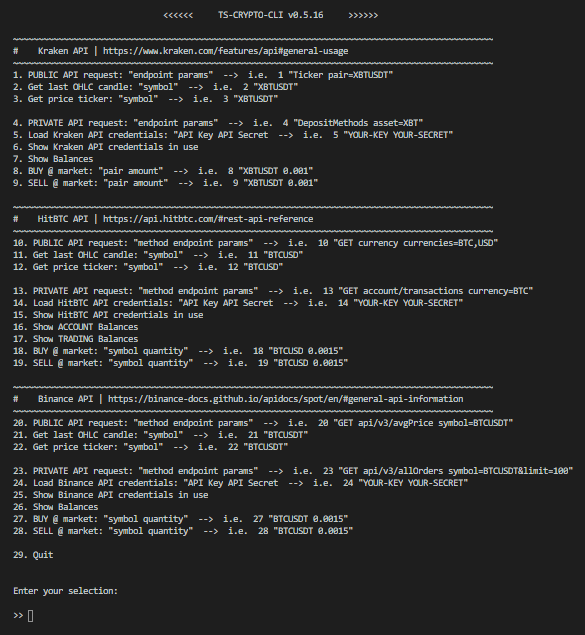
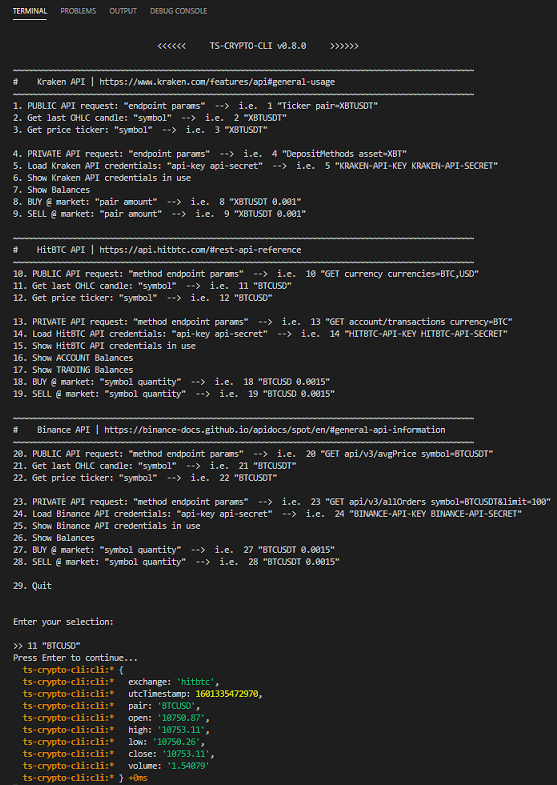
release: 0.8.0

Changed region(s): [[0.0, 0.0, 0.9767, 1.0], [0.0305, 0.0, 0.2442, 0.0299]]

diff --git a/src/cli.ts b/src/cli.ts
@@ -52,7 +52,7 @@ nodeMenu
   .addDelimiter(' ', 1)
   .addItem('PRIVATE API request', (input: string) => { const [endpoint, params] = input.split(' '); handleUserInput(endpoint, 'POST', 'kraken', 'private', params) }, null, [{ name: 'endpoint params"  -->  i.e.  4 "DepositMethods asset=XBT', type: 'string' }])
   
-  .addItem('Load Kraken API credentials', (input: string) => { const [k, s] = input.split(' '); process.env.KRAKEN_API_KEY = k; process.env.KRAKEN_API_SECRET = s; updateKrakenDefaultClient(k, s) }, null, [{ name: 'API Key API Secret  -->  i.e.  5 "KRAKEN-API-KEY KRAKEN-API-SECRET', type: 'string' }])
+  .addItem('Load Kraken API credentials', (input: string) => { const [k, s] = input.split(' '); process.env.KRAKEN_API_KEY = k; process.env.KRAKEN_API_SECRET = s; updateKrakenDefaultClient(k, s) }, null, [{ name: 'api-key api-secret"  -->  i.e.  5 "KRAKEN-API-KEY KRAKEN-API-SECRET', type: 'string' }])
   .addItem('Show Kraken API credentials in use', () => { print({apiKey: process.env.KRAKEN_API_KEY, apiSecret: process.env.KRAKEN_API_SECRET}) })
   
   .addItem('Show Balances', async () => { print(filterKrakenBalances(await krakenPrivateApiRequest({ url: 'Balance' }))) })
@@ -72,7 +72,7 @@ nodeMenu
   .addDelimiter(' ', 1)
   .addItem('PRIVATE API request', (input: string) => { const [method, endpoint, params] = input.split(' '); handleUserInput(endpoint, method as Method, 'hitbtc', 'private', params) }, null, [{ name: 'method endpoint params"  -->  i.e.  13 "GET account/transactions currency=BTC', type: 'string' }])
   
-  .addItem('Load HitBTC API credentials', (input: string) => { const [k, s] = input.split(' '); process.env.HITBTC_API_KEY = k; process.env.HITBTC_API_SECRET = s; updateHitBTCDefaultClient(k, s) }, null, [{ name: 'API Key API Secret  -->  i.e.  14 "HITBTC-API-KEY HITBTC-API-SECRET', type: 'string' }])
+  .addItem('Load HitBTC API credentials', (input: string) => { const [k, s] = input.split(' '); process.env.HITBTC_API_KEY = k; process.env.HITBTC_API_SECRET = s; updateHitBTCDefaultClient(k, s) }, null, [{ name: 'api-key api-secret"  -->  i.e.  14 "HITBTC-API-KEY HITBTC-API-SECRET', type: 'string' }])
   .addItem('Show HitBTC API credentials in use', () => { print({apiKey: process.env.HITBTC_API_KEY, apiSecret: process.env.HITBTC_API_SECRET}) })
   
   .addItem('Show ACCOUNT Balances', async () => { print(filterHitBTCBalances(await hitbtcPrivateApiRequest({ url: 'account/balance' }))) })
@@ -93,7 +93,7 @@ nodeMenu
   .addDelimiter(' ', 1)
   .addItem('PRIVATE API request', (input: string) => { const [method, endpoint, params] = input.split(' '); handleUserInput(endpoint, method as Method, 'binance', 'private', params) }, null, [{ name: 'method endpoint params"  -->  i.e.  23 "GET api/v3/allOrders symbol=BTCUSDT&limit=100', type: 'string' }])
   
-  .addItem('Load Binance API credentials', (input: string) => { const [k, s] = input.split(' '); process.env.BINANCE_API_KEY = k; process.env.BINANCE_API_SECRET = s; updateBinanceDefaultClient(k, s) }, null, [{ name: 'API Key API Secret  -->  i.e.  24 "BINANCE-API-KEY BINANCE-API-SECRET', type: 'string' }])
+  .addItem('Load Binance API credentials', (input: string) => { const [k, s] = input.split(' '); process.env.BINANCE_API_KEY = k; process.env.BINANCE_API_SECRET = s; updateBinanceDefaultClient(k, s) }, null, [{ name: 'api-key api-secret"  -->  i.e.  24 "BINANCE-API-KEY BINANCE-API-SECRET', type: 'string' }])
   .addItem('Show Binance API credentials in use', () => { print({apiKey: process.env.BINANCE_API_KEY, apiSecret: process.env.BINANCE_API_SECRET}) })
   
   .addItem('Show Balances', async () => { print(filterBinanceBalances((await binancePrivateApiRequest({ url: 'api/v3/account' })).balances)) })

diff --git a/src/base_axios_config.ts b/src/base_axios_config.ts
@@ -1,6 +1,5 @@
 import { createStream } from 'rotating-file-stream'
 import { resolve } from 'path'
-import * as moment from 'moment'
 import { stringify } from 'qs'
 import debugHelper from './util/debug_helper'
 import { AxiosRequestConfig, AxiosResponse, AxiosError } from 'axios'
@@ -20,7 +19,8 @@ const dirPath = TS_CRYPTO_CLI_LOGS_PATH ? resolve(TS_CRYPTO_CLI_LOGS_PATH) : nul
 
 // Rotating filenames
 const calculateFileName = (date: Date, index: number): string => {
-    const fileName = `ts-crypto-cli_${moment().utc().format('YYYY_MMM')}`
+    const [YYYY, MM] = new Date().toISOString().slice(0,7).split('-')
+    const fileName = `ts-crypto-cli_${YYYY}_${MM}`
     if (!date) return `${fileName}.csv`
     return `${fileName}_${index}.csv`
 }
@@ -41,26 +41,26 @@ const baseAxiosRequestInterceptor = (config: AxiosRequestConfig): AxiosRequestCo
         delete config.data
     }
     const { method, baseURL, url, params = '-', data = '-' } = config || {}
-    if (stream) stream.write(`\n${moment().utc().format('DD MMM YYYY HH:mm:ss')}; ${method.toUpperCase()}; ${baseURL}${baseURL.endsWith('/') || url.startsWith('/') ? '' : '/'}${url}; ${params}; ${data}; -; -; -`)
+    if (stream) stream.write(`\n${new Date().toISOString()}; ${method.toUpperCase()}; ${baseURL}${baseURL.endsWith('/') || url.startsWith('/') ? '' : '/'}${url}; ${params}; ${data}; -; -; -`)
     return config
 }
 
 const baseAxiosResponseInterceptor = (response: AxiosResponse): AxiosResponse => {
     const { config: { method, baseURL, url, params = '-' }, status = null, statusText = '-', data = '-' } = response || {}
-    if (stream) stream.write(`\n${moment().utc().format('DD MMM YYYY HH:mm:ss')}; ${method.toUpperCase()}; ${baseURL}${baseURL.endsWith('/') || url.startsWith('/') ? '' : '/'}${url}; ${params}; ${typeof data}; ${status}; ${statusText}; -`)
+    if (stream) stream.write(`\n${new Date().toISOString()}; ${method.toUpperCase()}; ${baseURL}${baseURL.endsWith('/') || url.startsWith('/') ? '' : '/'}${url}; ${params}; ${typeof data}; ${status}; ${statusText}; -`)
     return response
 }
 
 const baseAxiosRequestErrorInterceptor = (axiosRequestError: AxiosError): void => {
     const { config: { method, baseURL, url, params = '-', data = '-' }, code = '-', response: { status = null, statusText = '-' } = {} } = axiosRequestError || {}
-    if (stream) stream.write(`\n${moment().utc().format('DD MMM YYYY HH:mm:ss')}; ${method.toUpperCase()}; ${baseURL}${baseURL.endsWith('/') || url.startsWith('/') ? '' : '/'}${url}; ${params}; ${JSON.stringify(data)}; ${status}; ${statusText}; ${code}`)
+    if (stream) stream.write(`\n${new Date().toISOString()}; ${method.toUpperCase()}; ${baseURL}${baseURL.endsWith('/') || url.startsWith('/') ? '' : '/'}${url}; ${params}; ${JSON.stringify(data)}; ${status}; ${statusText}; ${code}`)
     logError({ axiosRequestError })
     throw axiosRequestError
 }
 
 const baseAxiosResponseErrorInterceptor = (axiosResponseError: AxiosError): void => {
     const { config: { method, baseURL, url, params = '-', data = '-' }, code = '-', response: { status = null, statusText = '-' } = {} } = axiosResponseError || {}
-    if (stream) stream.write(`\n${moment().utc().format('DD MMM YYYY HH:mm:ss')}; ${method.toUpperCase()}; ${baseURL}${baseURL.endsWith('/') || url.startsWith('/') ? '' : '/'}${url}; ${params}; ${typeof data}; ${status}; ${statusText}; ${code}`)
+    if (stream) stream.write(`\n${new Date().toISOString()}; ${method.toUpperCase()}; ${baseURL}${baseURL.endsWith('/') || url.startsWith('/') ? '' : '/'}${url}; ${params}; ${typeof data}; ${status}; ${statusText}; ${code}`)
     logError({ axiosResponseError })
     throw axiosResponseError
 }

diff --git a/src/index.ts b/src/index.ts
@@ -5,6 +5,7 @@ export * from './api_clients/kraken/public_ws_handler'
 export * from './api_clients/kraken/private_ws_handler'
 export * from './services/kraken/get_kraken_price_ticker'
 export * from './services/kraken/get_kraken_ohlc_candles'
+export * from './streams/kraken/get_kraken_ticker_stream'
 
 export * from './api_clients/hitbtc/public_api_request'
 export * from './api_clients/hitbtc/private_api_request'
@@ -12,6 +13,7 @@ export * from './api_clients/hitbtc/public_ws_handler'
 export * from './api_clients/hitbtc/private_ws_handler'
 export * from './services/hitbtc/get_hitbtc_price_ticker'
 export * from './services/hitbtc/get_hitbtc_ohlc_candles'
+export * from './streams/hitbtc/get_hitbtc_ticker_stream'
 
 export * from './api_clients/binance/public_api_request'
 export * from './api_clients/binance/private_api_request'
@@ -19,6 +21,7 @@ export * from './api_clients/binance/public_ws_handler'
 export * from './api_clients/binance/private_ws_handler'
 export * from './services/binance/get_binance_price_ticker'
 export * from './services/binance/get_binance_ohlc_candles'
+export * from './streams/binance/get_binance_ticker_stream'
 
 export * from './types/standard_ohlc'
 export * from './types/standard_ticker'

diff --git a/src/services/binance/get_binance_ohlc_candles.ts b/src/services/binance/get_binance_ohlc_candles.ts
@@ -1,19 +1,19 @@
-import { standardOHLC } from "../../types/standard_ohlc"
-import { binancePublicApiRequest } from "../../api_clients/binance/public_api_request"
-import * as moment from 'moment'
+import { StandardOHLC } from '../../types/standard_ohlc'
+import { binancePublicApiRequest } from '../../api_clients/binance/public_api_request'
 
 // 
 // https://binance-docs.github.io/apidocs/spot/en/#kline-candlestick-data
 // 
 // limit: Default 500; max 1000
 
-export const getBinanceOHLCCandles = async (symbol: string, interval = '1m', limit = 720): Promise<standardOHLC[]> => {
-    const candles = await binancePublicApiRequest({ url: 'api/v3/klines', params: { symbol, interval, limit }})
+export const getBinanceOHLCCandles = async (pair: string, interval = '1m', limit = 720): Promise<StandardOHLC[]> => {
+    const candles = await binancePublicApiRequest({ url: 'api/v3/klines', params: { symbol: pair, interval, limit }})
     candles.reverse()
     
     return candles.map(([, open, high, low, close, volume,]) => ({
         exchange: 'binance',
-        utcMoment: moment().utc(),
+        utcTimestamp: new Date().getTime(),
+        pair,
         open,
         high,
         low,

diff --git a/src/services/hitbtc/get_hitbtc_ohlc_candles.ts b/src/services/hitbtc/get_hitbtc_ohlc_candles.ts
@@ -1,19 +1,19 @@
 import { hitbtcPublicApiRequest } from '../../api_clients/hitbtc/public_api_request'
-import { standardOHLC } from '../../types/standard_ohlc'
-import * as moment from 'moment'
+import { StandardOHLC } from '../../types/standard_ohlc'
 
 // 
 // https://api.hitbtc.com/#candles
 // 
 // limit: Default 100; max 1000
 
-export const getHitBTCOHLCCandles = async (symbol: string, period = 'M1', limit = 720): Promise<standardOHLC[]> => {
-    const candles = await hitbtcPublicApiRequest({ url: 'candles', params: { symbols: symbol, period, sort: 'DESC', limit }})
+export const getHitBTCOHLCCandles = async (pair: string, period = 'M1', limit = 720): Promise<StandardOHLC[]> => {
+    const candles = await hitbtcPublicApiRequest({ url: 'candles', params: { symbols: pair, period, sort: 'DESC', limit }})
     const [pairKey,] = Object.keys(candles)
     
     return candles[pairKey].map(({ open, max: high, min: low, close, volume }) => ({
         exchange: 'hitbtc',
-        utcMoment: moment().utc(),
+        utcTimestamp: new Date().getTime(),
+        pair,
         open,
         high,
         low,

diff --git a/src/services/kraken/get_kraken_price_ticker.ts b/src/services/kraken/get_kraken_price_ticker.ts
@@ -1,12 +1,11 @@
-import { krakenPublicApiRequest } from "../../api_clients/kraken/public_api_request"
-import { standardTicker } from "../../types/standard_ticker"
-import * as moment from 'moment'
+import { krakenPublicApiRequest } from '../../api_clients/kraken/public_api_request'
+import { StandardTicker } from '../../types/standard_ticker'
 
 // 
 // https://www.kraken.com/features/api#get-ticker-info
 // 
 
-export const getKrakenPriceTicker = async (pair: string): Promise<standardTicker> => {
+export const getKrakenPriceTicker = async (pair: string): Promise<StandardTicker> => {
     const rawTicker = await krakenPublicApiRequest({ url: 'Ticker', data: { pair }})
     const [pairKey,] = Object.keys(rawTicker)
     const ticker = rawTicker[pairKey]
@@ -14,7 +13,7 @@ export const getKrakenPriceTicker = async (pair: string): Promise<standardTicker
 
     return {
         exchange: 'kraken',
-        utcMoment: moment().utc(),
+        utcTimestamp: new Date().getTime(),
         pair,
         price
     }

diff --git a/src/streams/hitbtc/get_hitbtc_ticker_stream.ts b/src/streams/hitbtc/get_hitbtc_ticker_stream.ts
@@ -1,0 +1,25 @@
+import { Observable } from 'rxjs'
+import { map } from 'rxjs/operators'
+import { getHitBTCPublicObservableFromWS } from '../../api_clients/hitbtc/public_ws_handler'
+import { StandardTicker } from '../../types/standard_ticker'
+
+const getHitBTCTickerStream = (pair: string): Observable<StandardTicker> => {
+    const subscriptionData = {
+        method: 'subscribeTicker',
+        params: {
+            symbol: pair.toUpperCase()
+        }
+    }
+    const filterStream = ({ method, params: { symbol = '' } = {} }): boolean => method === 'ticker' && symbol.toUpperCase() === pair.toUpperCase()
+
+    return getHitBTCPublicObservableFromWS(subscriptionData, filterStream).pipe(
+        map(({ params: { last: lastHitBTCprice = '', timestamp } }) => ({
+            exchange: 'hitbtc',
+            utcTimestamp: new Date(timestamp).getTime(),
+            pair,
+            price: Number(lastHitBTCprice).toFixed(2),
+        }))
+    )
+}
+
+export default getHitBTCTickerStream

diff --git a/src/streams/kraken/get_kraken_ticker_stream.ts b/src/streams/kraken/get_kraken_ticker_stream.ts
@@ -1,0 +1,25 @@
+import { Observable } from 'rxjs'
+import { map } from 'rxjs/operators'
+import { getKrakenPublicObservableFromWS } from '../../api_clients/kraken/public_ws_handler'
+import { StandardTicker } from '../../types/standard_ticker'
+
+const getKrakenTickerStream = (pair: string): Observable<StandardTicker> => {
+    const subscriptionData = {
+        event: 'subscribe',
+        pair: [pair],
+        subscription: {
+            name: 'ticker'
+        }
+    }
+    const filterStream = (response): boolean => Array.isArray(response) && response.slice(-2).every(v => ['ticker', pair].includes(v))
+    return getKrakenPublicObservableFromWS(subscriptionData, filterStream).pipe(
+        map(([, { c: [lastKrakenPrice = '',] = [] } = {}, ]) => ({
+            exchange: 'kraken',
+            utcTimestamp: new Date().getTime(),
+            pair: pair.toUpperCase(),
+            price: Number(lastKrakenPrice).toFixed(2),
+        }))
+    )
+}
+
+export default getKrakenTickerStream

diff --git a/src/services/kraken/get_kraken_ohlc_candles.ts b/src/services/kraken/get_kraken_ohlc_candles.ts
@@ -1,19 +1,19 @@
 import { krakenPublicApiRequest } from "../../api_clients/kraken/public_api_request"
-import { standardOHLC } from "../../types/standard_ohlc"
-import * as moment from 'moment'
+import { StandardOHLC } from "../../types/standard_ohlc"
 
 // 
 // https://www.kraken.com/features/api#get-ohlc-data
 // 
 
-export const getKrakenOHLCCandles = async (pair: string, interval = 1): Promise<standardOHLC[]> => {
+export const getKrakenOHLCCandles = async (pair: string, interval = 1): Promise<StandardOHLC[]> => {
     const candles = await krakenPublicApiRequest({ url: 'OHLC', data: { pair, interval }})
     const [pairKey,] = Object.keys(candles)
     candles[pairKey].reverse()
     
     return candles[pairKey].map(([ open, high, low, close,, volume ]) => ({
         exchange: 'kraken',
-        utcMoment: moment().utc(),
+        utcTimestamp: new Date().getTime(),
+        pair,
         open,
         high,
         low,

diff --git a/src/services/binance/get_binance_price_ticker.ts b/src/services/binance/get_binance_price_ticker.ts
@@ -1,19 +1,18 @@
-import { binancePublicApiRequest } from "../../api_clients/binance/public_api_request"
-import { standardTicker } from "../../types/standard_ticker"
-import * as moment from 'moment'
+import { binancePublicApiRequest } from '../../api_clients/binance/public_api_request'
+import { StandardTicker } from '../../types/standard_ticker'
 
 // 
 // https://binance-docs.github.io/apidocs/spot/en/#symbol-price-ticker
 // 
 
-export const getBinancePriceTicker = async (symbol: string): Promise<standardTicker> => {
+export const getBinancePriceTicker = async (symbol: string): Promise<StandardTicker> => {
     const { symbol: pair, price } = await binancePublicApiRequest({ 
         url: 'api/v3/ticker/price',
         params: { symbol }
     })
     return {
         exchange: 'binance',
-        utcMoment: moment().utc(),
+        utcTimestamp: new Date().getTime(),
         pair,
         price
     }

diff --git a/src/services/hitbtc/get_hitbtc_price_ticker.ts b/src/services/hitbtc/get_hitbtc_price_ticker.ts
@@ -1,18 +1,17 @@
-import { hitbtcPublicApiRequest } from "../../api_clients/hitbtc/public_api_request"
-import { standardTicker } from "../../types/standard_ticker"
-import * as moment from 'moment'
+import { hitbtcPublicApiRequest } from '../../api_clients/hitbtc/public_api_request'
+import { StandardTicker } from '../../types/standard_ticker'
 
 // 
 // https://api.hitbtc.com/#tickers
 // 
 
-export const getHitBTCPriceTicker = async (symbols: string): Promise<standardTicker> => {
+export const getHitBTCPriceTicker = async (symbols: string): Promise<StandardTicker> => {
     const ticker = await hitbtcPublicApiRequest({ url: 'ticker', params: { symbols }})
     const { last: price } = ticker.find(({ symbol }) => symbol === symbols )
     
     return {
         exchange: 'hitbtc',
-        utcMoment: moment().utc(),
+        utcTimestamp: new Date().getTime(),
         pair: symbols,
         price
     }

diff --git a/src/api_clients/binance/private_api_request.ts b/src/api_clients/binance/private_api_request.ts
@@ -2,7 +2,6 @@ import { baseAxiosRequestInterceptor, baseAxiosRequestErrorInterceptor, baseAxio
 import debugHelper from '../../util/debug_helper'
 import axios, { AxiosInstance, AxiosRequestConfig } from 'axios'
 import { binanceAxiosConfig } from './binance_axios_config'
-import * as moment from 'moment'
 import { getBinanceMessageSignature } from './message_signature'
 
 const { debug } = debugHelper(__filename)
@@ -12,7 +11,7 @@ export const createBinancePrivateApiClient = (apikey = process.env.BINANCE_API_K
     privateApiClient.defaults.headers['X-MBX-APIKEY'] = apikey
     privateApiClient.interceptors.request.use((config: AxiosRequestConfig) => {
 
-        const timestamp = moment().valueOf()
+        const timestamp = new Date().getTime()
         // Sign payload if any
         if (config.data) {
             config.data = {
